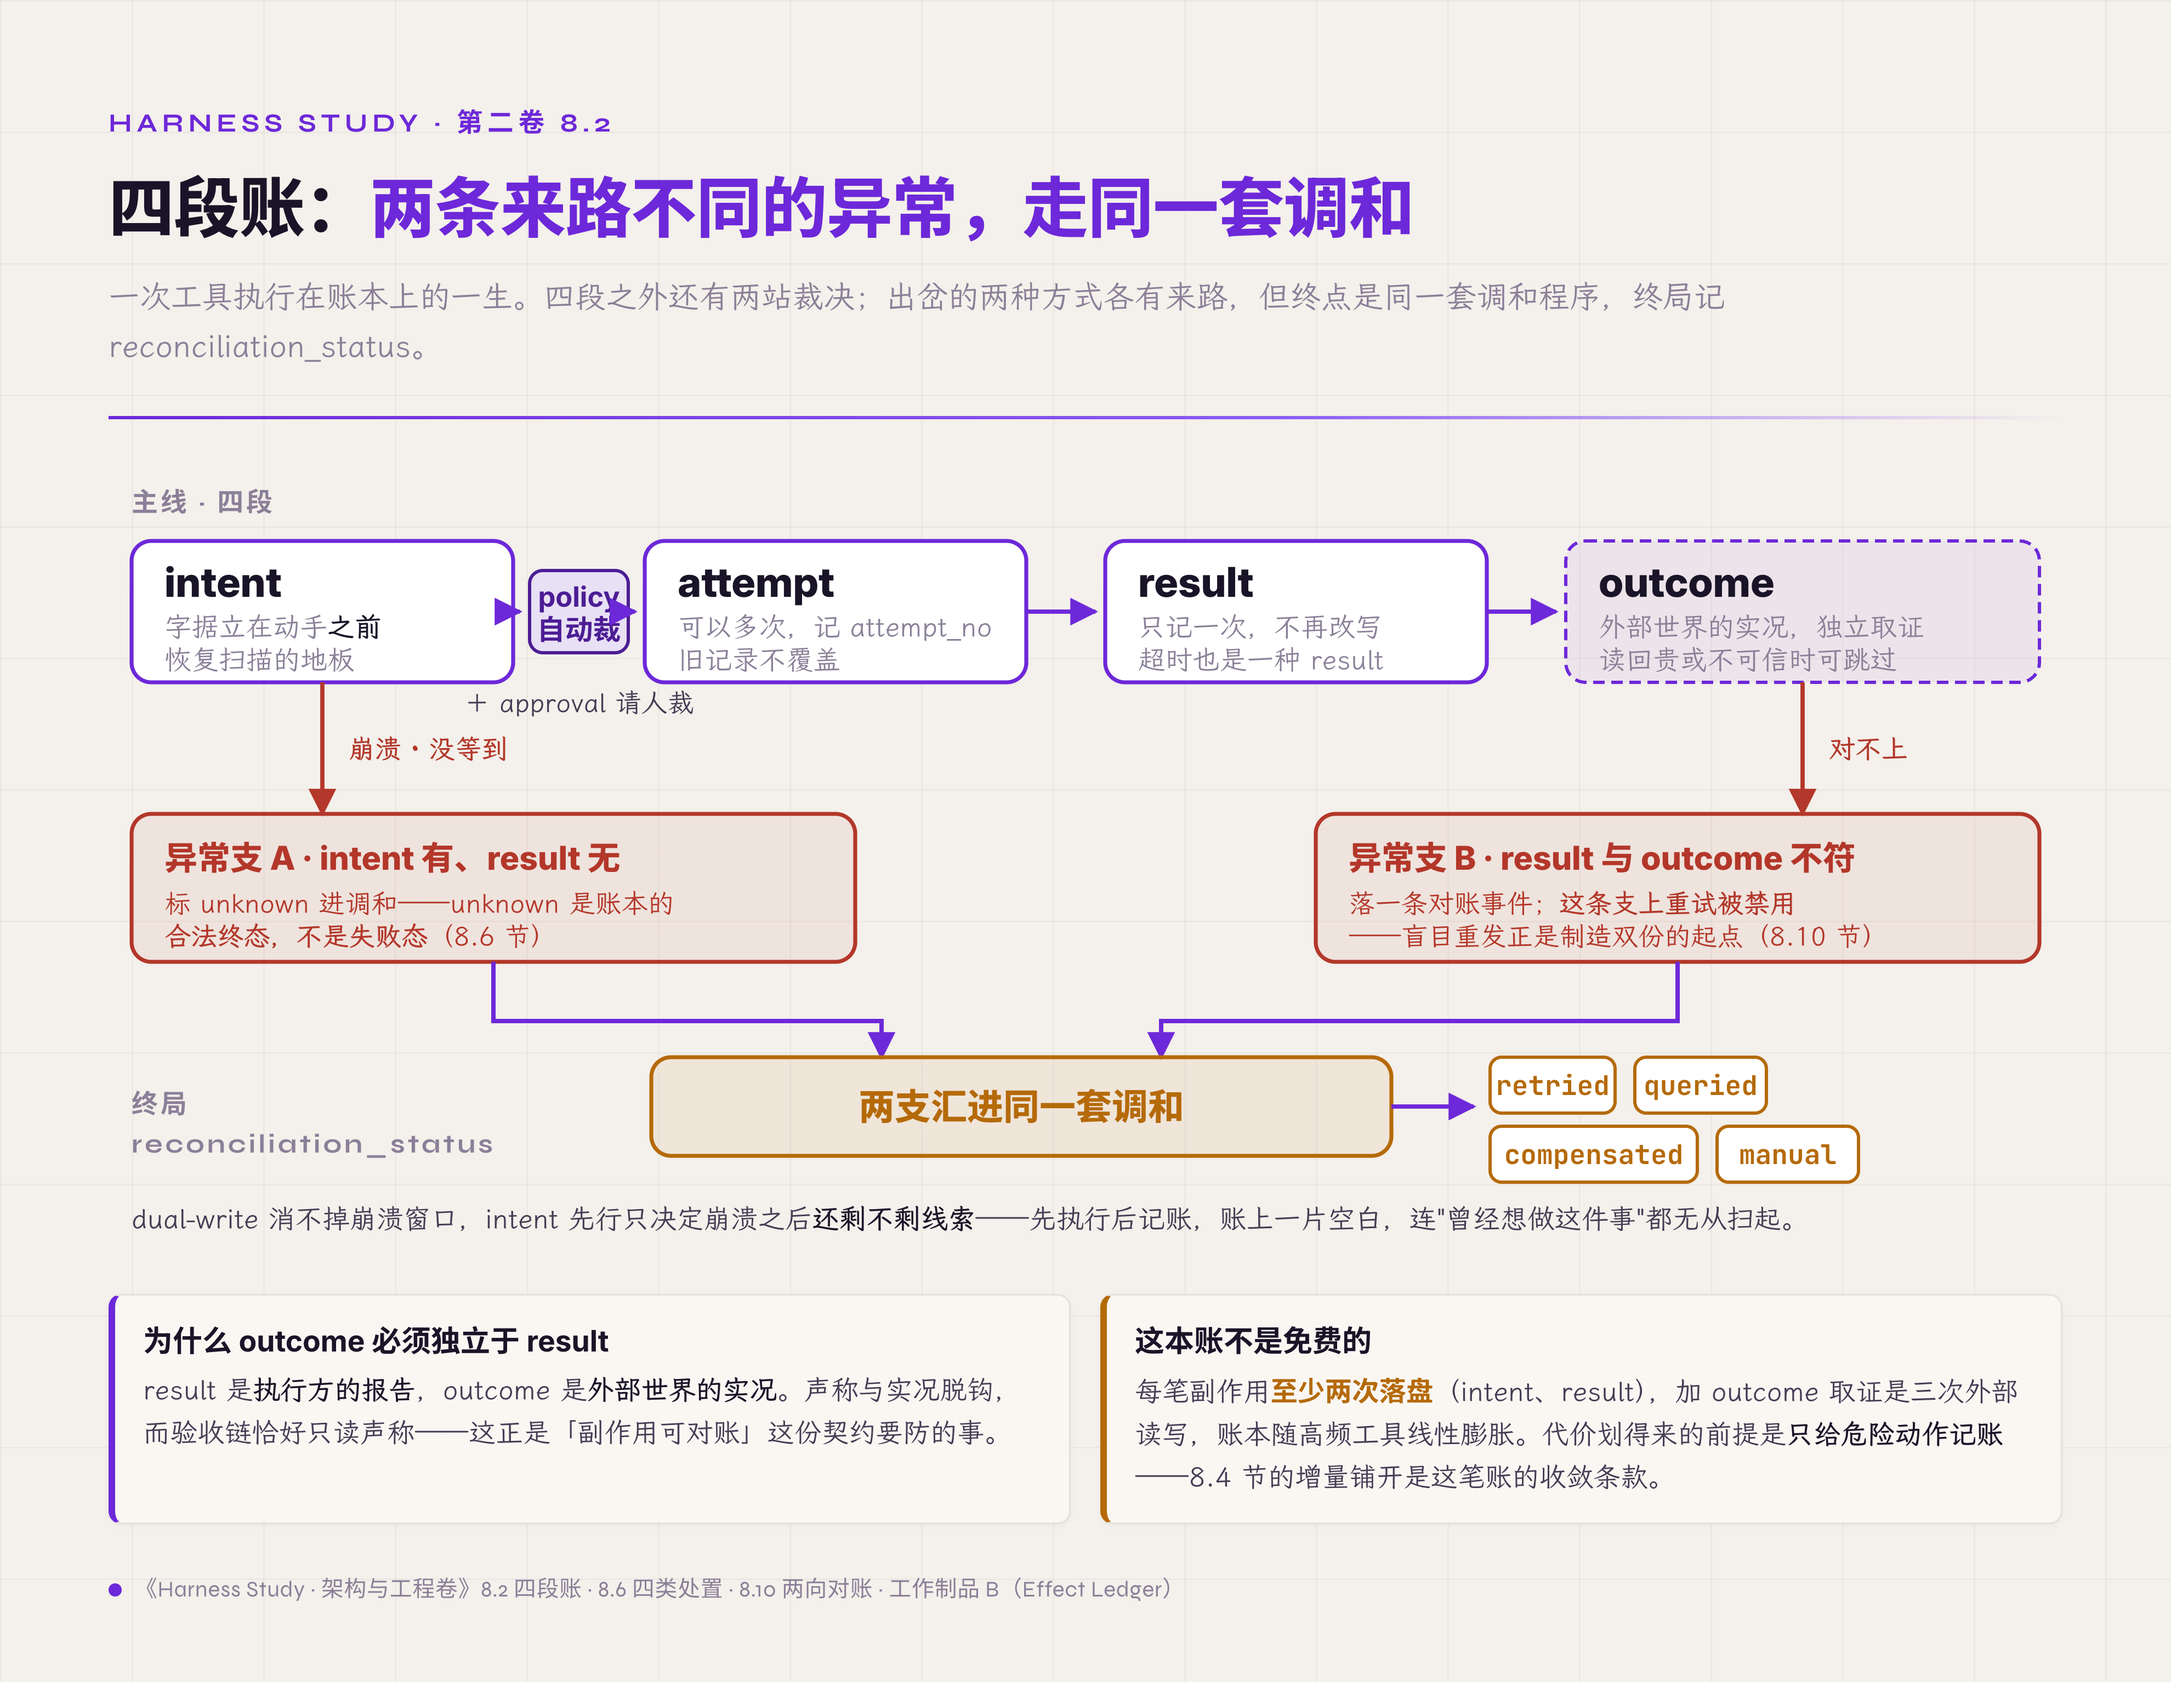
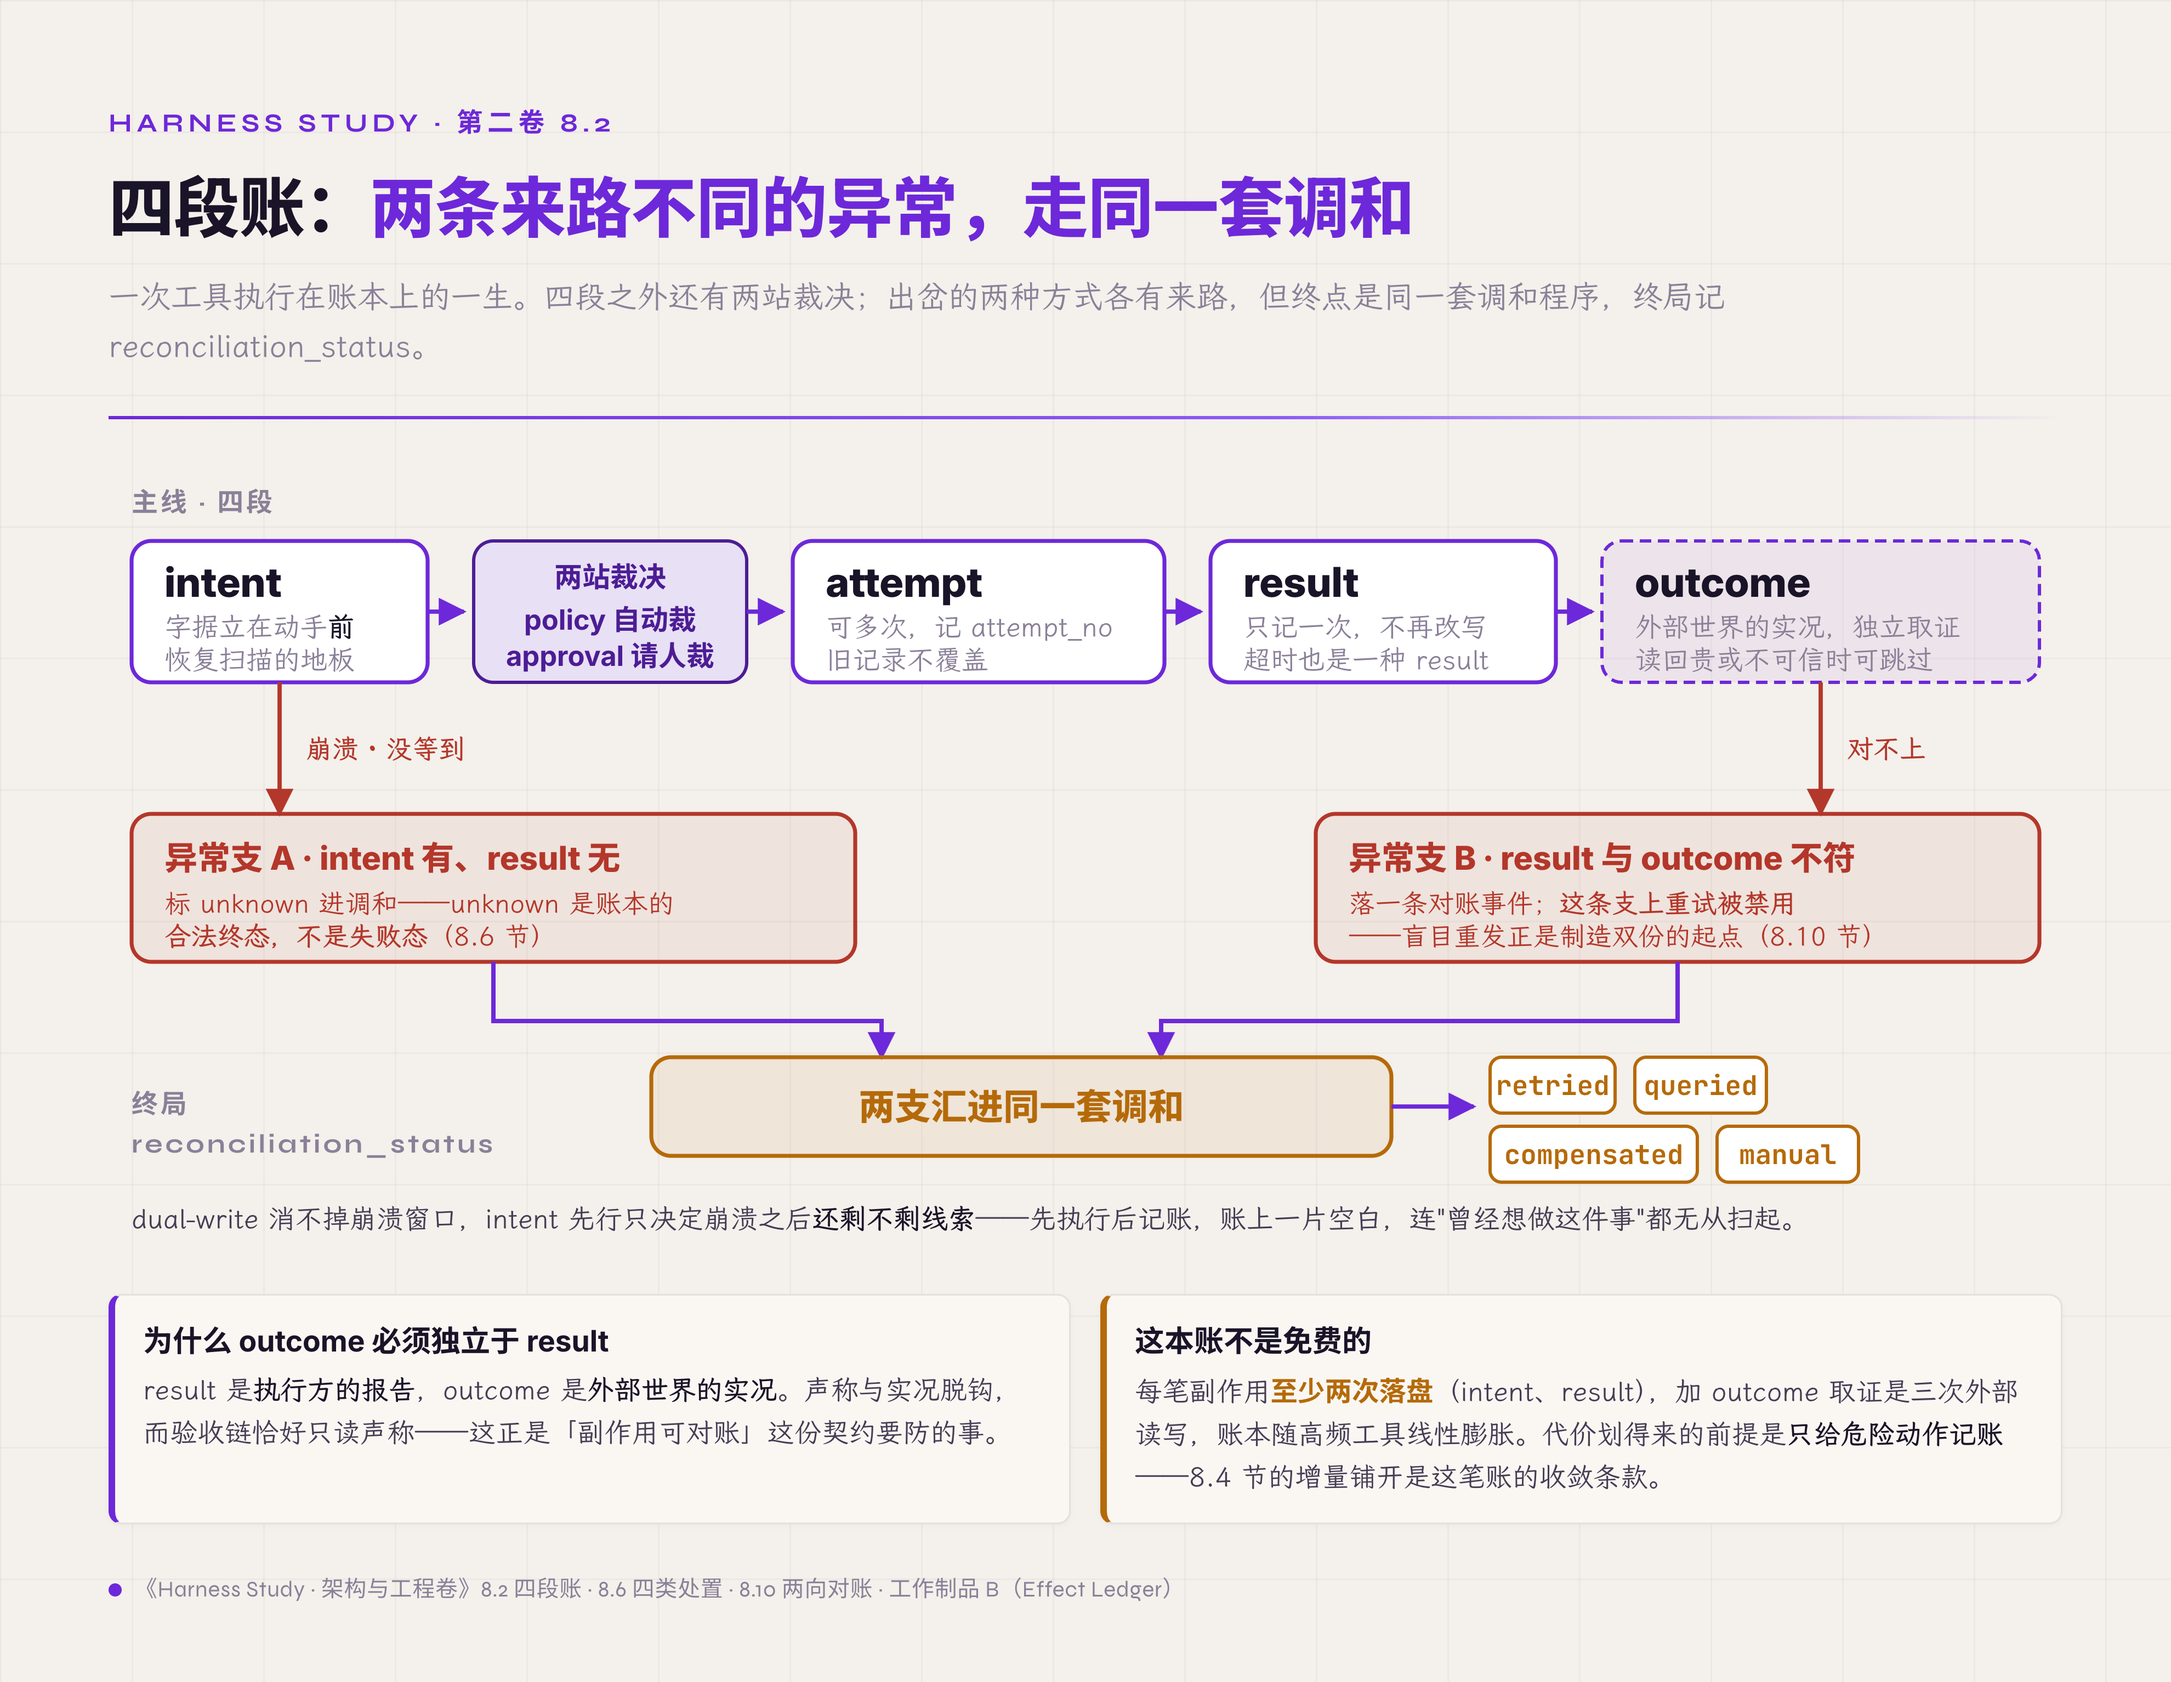
fix(volume2/figures): 8.2 四段账主线重排——箭头等长、两站裁决平级
policy 格子左右的箭头只有 4px，实际只剩箭头尖挤在缝里（用户指出）。
重排四段宽度，四个箭头统一 22px、间距一致。

顺带治一处内容缺陷：approval 原被挤成框外小字，而正文明说 policy 与
approval 是「两站」，并列站在字据与动手之间——现合成「两站裁决」框，
两站平级。

diff --git a/volume2/figures/t1-flow-8.2-four-stage-ledger.html b/volume2/figures/t1-flow-8.2-four-stage-ledger.html
@@ -50,49 +50,48 @@
     <text class="hd" x="14" y="30">主线 · 四段</text>
 
     <!-- 四段主线 -->
-    <g><rect class="seg" x="14" y="48" width="232" height="86" rx="12"/>
+    <g><rect class="seg" x="14" y="48" width="180" height="86" rx="12"/>
       <text class="st" x="34" y="82">intent</text>
-      <text class="ss" x="34" y="106">字据立在动手<tspan font-weight="700" fill="#1a1428">之前</tspan></text>
+      <text class="ss" x="34" y="106">字据立在动手<tspan font-weight="700" fill="#1a1428">前</tspan></text>
       <text class="ss" x="34" y="126">恢复扫描的地板</text></g>
 
-    <g><rect class="seg" x="326" y="48" width="232" height="86" rx="12"/>
-      <text class="st" x="346" y="82">attempt</text>
-      <text class="ss" x="346" y="106">可以多次，记 attempt_no</text>
-      <text class="ss" x="346" y="126">旧记录不覆盖</text></g>
+    <g><rect class="seg" x="416" y="48" width="226" height="86" rx="12"/>
+      <text class="st" x="436" y="82">attempt</text>
+      <text class="ss" x="436" y="106">可多次，记 attempt_no</text>
+      <text class="ss" x="436" y="126">旧记录不覆盖</text></g>
 
-    <g><rect class="seg" x="606" y="48" width="232" height="86" rx="12"/>
-      <text class="st" x="626" y="82">result</text>
-      <text class="ss" x="626" y="106">只记一次，不再改写</text>
-      <text class="ss" x="626" y="126">超时也是一种 result</text></g>
+    <g><rect class="seg" x="670" y="48" width="210" height="86" rx="12"/>
+      <text class="st" x="690" y="82">result</text>
+      <text class="ss" x="690" y="106">只记一次，不再改写</text>
+      <text class="ss" x="690" y="126">超时也是一种 result</text></g>
 
-    <g><rect class="seg-g" x="886" y="48" width="288" height="86" rx="12"/>
-      <text class="st" x="906" y="82">outcome</text>
-      <text class="ss" x="906" y="106">外部世界的实况，独立取证</text>
-      <text class="ss" x="906" y="126" fill="#b56a09">读回贵或不可信时可跳过</text></g>
+    <g><rect class="seg-g" x="908" y="48" width="266" height="86" rx="12"/>
+      <text class="st" x="928" y="82">outcome</text>
+      <text class="ss" x="928" y="106">外部世界的实况，独立取证</text>
+      <text class="ss" x="928" y="126" fill="#b56a09">读回贵或不可信时可跳过</text></g>
 
-    <!-- 两站裁决 -->
-    <g><rect class="gate" x="256" y="66" width="60" height="50" rx="8"/>
-      <text class="gatet" x="286" y="88" text-anchor="middle">policy</text>
-      <text class="gatet" x="286" y="108" text-anchor="middle" font-size="15">自动裁</text></g>
-    <g><rect class="gate" x="256" y="66" width="60" height="50" rx="8" opacity="0"/></g>
-    <text class="el" x="286" y="152" text-anchor="middle">＋ approval 请人裁</text>
+    <!-- 两站裁决：站在字据与动手之间 -->
+    <g><rect class="gate" x="222" y="48" width="166" height="86" rx="12"/>
+      <text class="gatet" x="305" y="76" text-anchor="middle" font-size="15">两站裁决</text>
+      <text class="gatet" x="305" y="102" text-anchor="middle">policy 自动裁</text>
+      <text class="gatet" x="305" y="124" text-anchor="middle">approval 请人裁</text></g>
 
-    <path class="ar" d="M246,91 L250,91"/>
-    <path class="ar" d="M316,91 L320,91"/>
-    <path class="ar" d="M558,91 L600,91"/>
-    <path class="ar" d="M838,91 L880,91"/>
+    <path class="ar" d="M194,91 L216,91"/>
+    <path class="ar" d="M388,91 L410,91"/>
+    <path class="ar" d="M642,91 L664,91"/>
+    <path class="ar" d="M880,91 L902,91"/>
 
     <!-- 异常支 A -->
-    <path class="ar-b" d="M130,134 L130,214"/>
-    <text class="el-b" x="146" y="180">崩溃 · 没等到</text>
+    <path class="ar-b" d="M104,134 L104,214"/>
+    <text class="el-b" x="120" y="180">崩溃 · 没等到</text>
     <g><rect class="bad" x="14" y="214" width="440" height="90" rx="12"/>
       <text class="badt" x="34" y="248">异常支 A · intent 有、result 无</text>
       <text class="badc" x="34" y="274">标 unknown 进调和——unknown 是账本的</text>
       <text class="badc" x="34" y="294"><tspan font-weight="700">合法终态，不是失败态</tspan>（8.6 节）</text></g>
 
     <!-- 异常支 B -->
-    <path class="ar-b" d="M1030,134 L1030,214"/>
-    <text class="el-b" x="1046" y="180">对不上</text>
+    <path class="ar-b" d="M1041,134 L1041,214"/>
+    <text class="el-b" x="1057" y="180">对不上</text>
     <g><rect class="bad" x="734" y="214" width="440" height="90" rx="12"/>
       <text class="badt" x="754" y="248">异常支 B · result 与 outcome 不符</text>
       <text class="badc" x="754" y="274">落一条对账事件；<tspan font-weight="700">这条支上重试被禁用</tspan></text>
